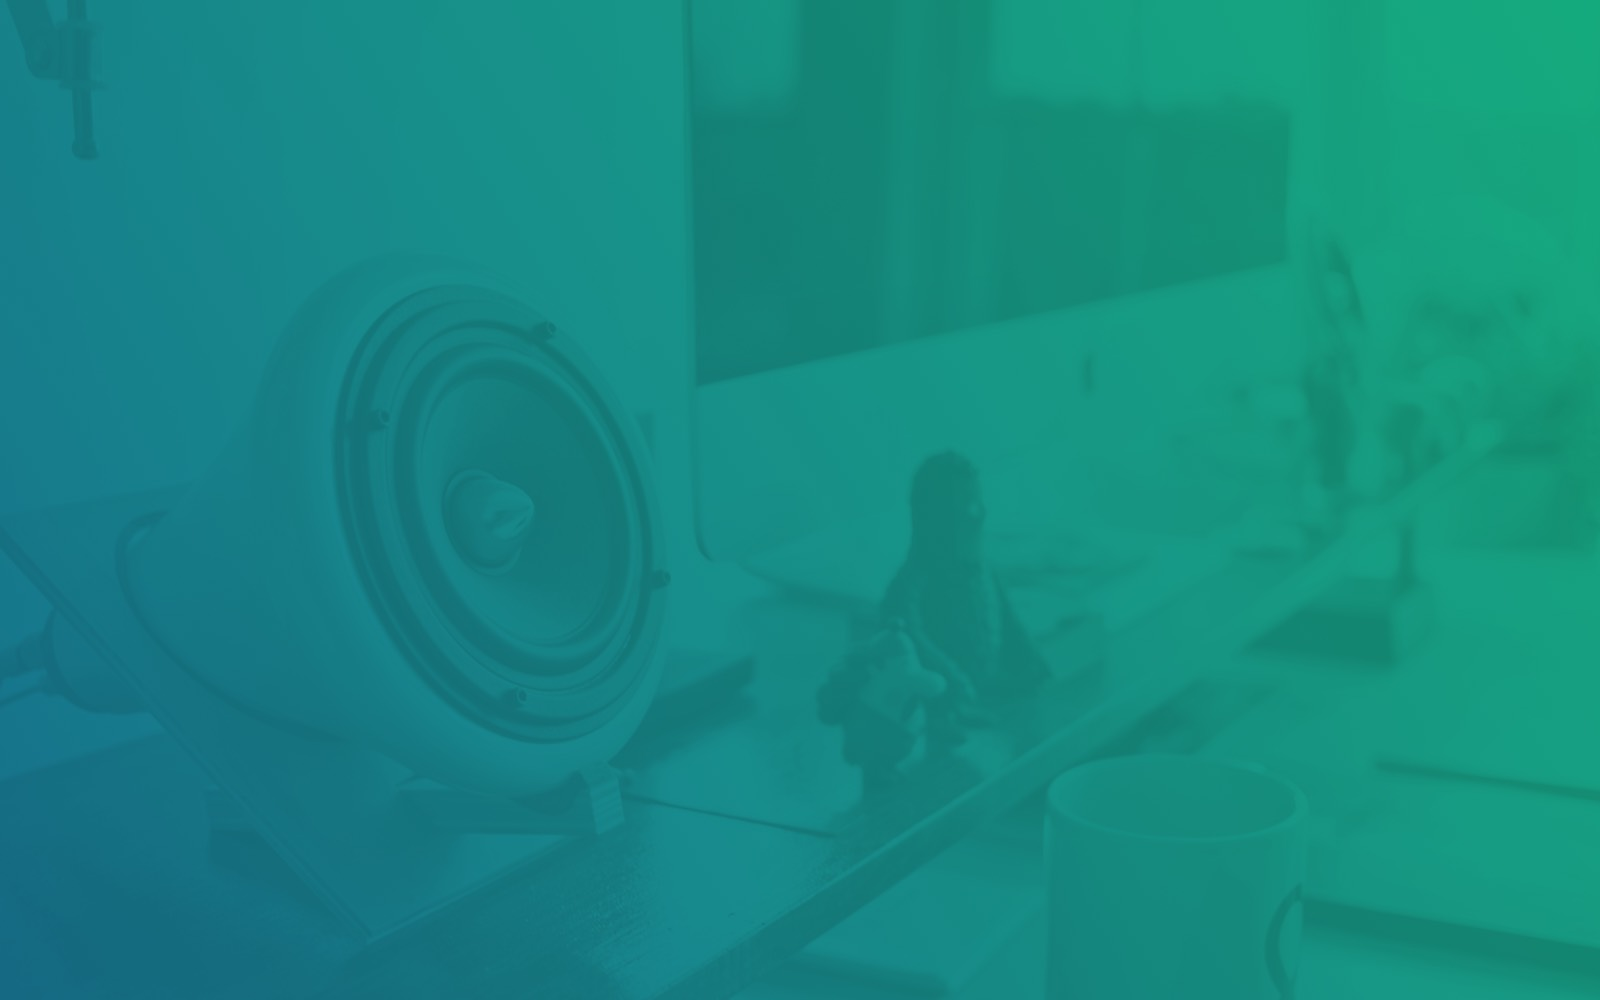
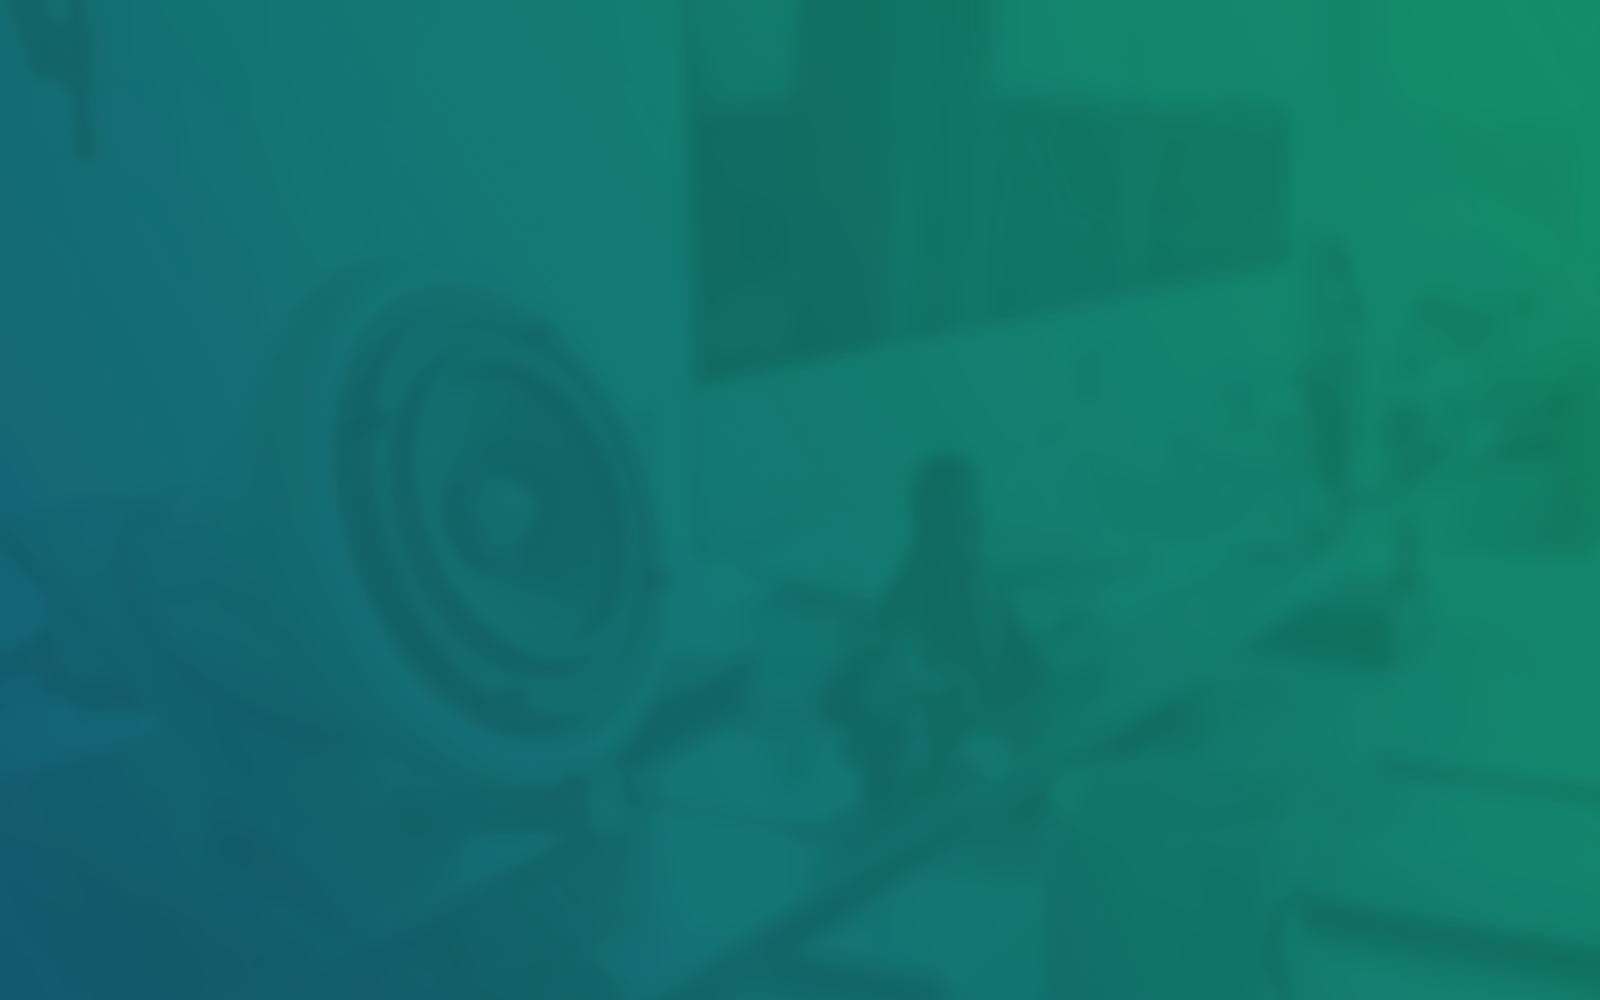
Improve contrast of values section
The "values" section is actually the products section.

The text did not meet the WCAG requirements. By darkening and
blurring the background, and not using lightweight text, and
not blurring the text, a passable contrast was achieved.

diff --git a/app/styles/main.css b/app/styles/main.css
@@ -23,10 +23,6 @@ body {
 –––––––––––––––––––––––––––––––––––––––––––––––––– */
 .values {
   background-image: url('../images/values-bg.jpg');
-  filter:alpha(opacity=50);
-  -moz-opacity:0.5;
-  -khtml-opacity: 0.5;
-  opacity: 0.8;
   background-size: cover;
   color: #fff;
   padding-bottom: 5rem;
@@ -41,11 +37,12 @@ body {
   margin-bottom: .5rem;
 }
 .value-heading {
+  font-weight: normal;
   margin-bottom: .3rem;
 }
-.value-description {
-  opacity: .8;
-  font-weight: 300;
+.value-description, .values .value-heading {
+  /* Since the font is so lightweight, it is harder to read on lower contrasts */
+  font-weight: 500;
 }
 
 
